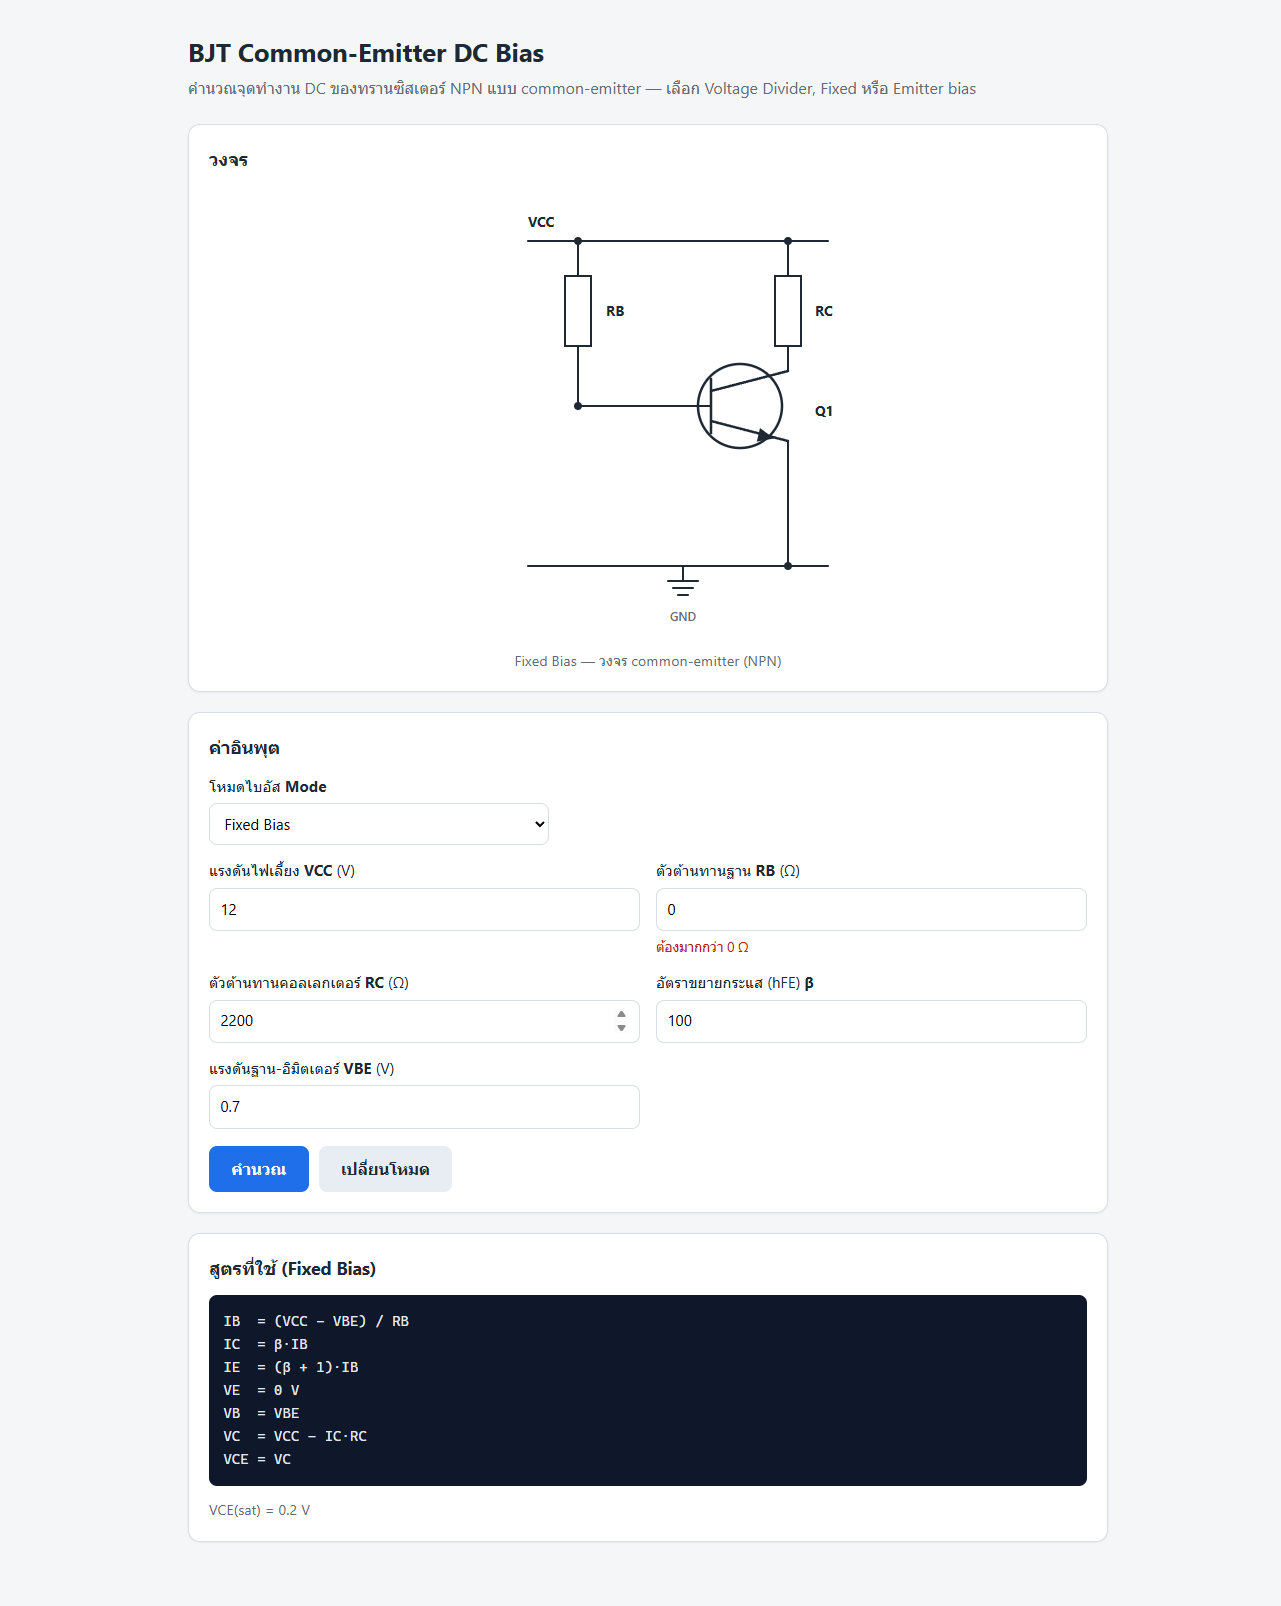
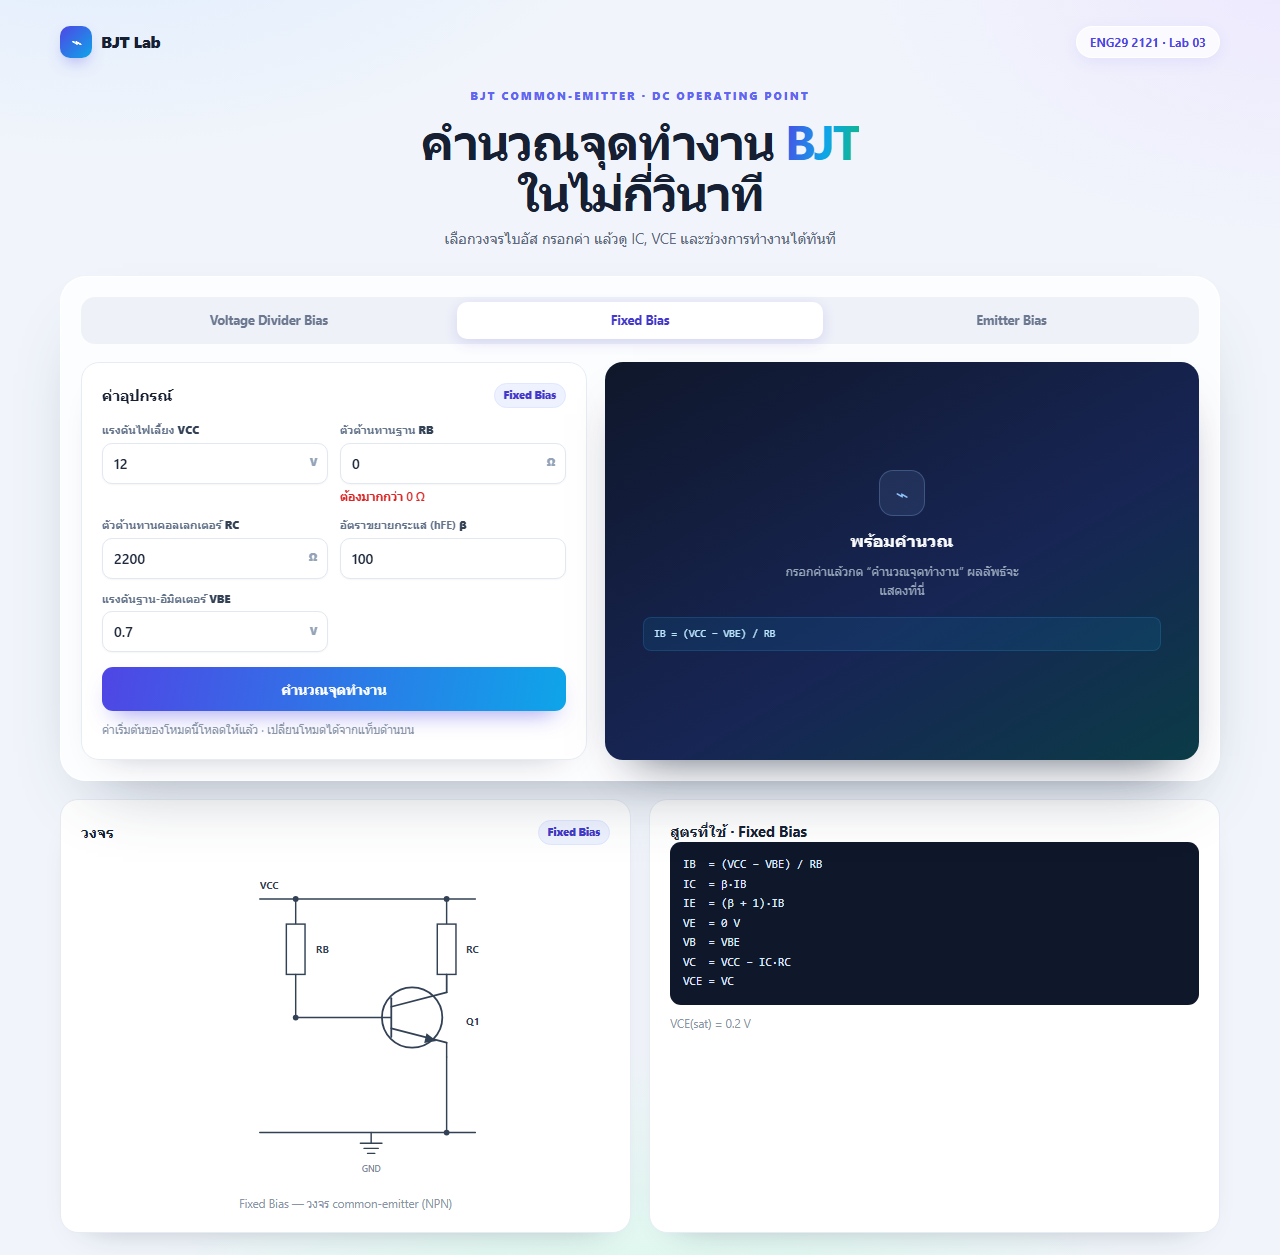
docs: refresh lab 03 evidence for new UI

diff --git a/README.md b/README.md
@@ -11,7 +11,7 @@ Lab 02–03
 
 ## Features
 
-- เลือกโหมดไบอัสจากฟอร์ม แล้วโหลดฟอร์มใหม่ให้แสดงเฉพาะช่องของโหมดนั้น (ไม่ใช้ JavaScript)
+- เลือกโหมดไบอัสด้วยแท็บเหนือฟอร์ม แล้วโหลดฟอร์มใหม่ให้แสดงเฉพาะช่องของโหมดนั้น (ไม่ใช้ JavaScript)
 - Fixed Bias ใช้ `VCC`, `RB`, `RC`, `β`, `VBE`
 - Emitter Bias ใช้ `VCC`, `RB`, `RC`, `RE`, `β`, `VBE`
 - Voltage Divider Bias ใช้ `VCC`, `R1`, `R2`, `RC`, `RE`, `β`, `VBE` (ของเดิมจาก Lab 02)
@@ -120,8 +120,8 @@ python -m venv .venv
 .\.venv\Scripts\python.exe app.py
 ```
 
-เปิด `http://127.0.0.1:5000` เลือกโหมดจากเมนู **โหมดไบอัส** แล้วกด **เปลี่ยนโหมด**
-เพื่อโหลดช่องอินพุตของโหมดนั้น จากนั้นกรอกค่าและกด **คำนวณ**
+เปิด `http://127.0.0.1:5000` สลับโหมดด้วยแท็บ **Voltage Divider Bias / Fixed Bias / Emitter Bias**
+เพื่อโหลดช่องอินพุตของโหมดนั้น จากนั้นกรอกค่าและกด **คำนวณจุดทำงาน**
 
 ## Test
 

diff --git a/docs/validation.md b/docs/validation.md
@@ -88,10 +88,10 @@ VCE = VC − VE                           = 8.0327787022 V
 
 - วิธีตรวจจริง: **OpenCode Browser (browser tool ในแอป)** — ไม่ได้ใช้ Playwright MCP
   ตามทางเลือกสำรองที่ใบงานอนุญาต; เปิด `http://127.0.0.1:5000/` และกรอกฟอร์มจริง
-- ข้อความผลที่คัดจากหน้าเว็บ (A3): `จุดทำงาน DC — Emitter Bias`, `Active`,
+- ข้อความผลที่คัดจากหน้าเว็บ (A3): `ผลลัพธ์ · Emitter Bias`, `Active`,
   `IC 1.0263 mA`, `VCE 8.7054 V`, `VE 1.0366 V`
-- ข้อความ error ที่คัดจากหน้าเว็บ (A5): `ต้องมากกว่า 0 Ω` ใต้ช่อง `ตัวต้านทานฐาน RB (Ω)`
-  และไม่มีส่วน `จุดทำงาน DC`
+- ข้อความ error ที่คัดจากหน้าเว็บ (A5): `ต้องมากกว่า 0 Ω` ใต้ช่อง `ตัวต้านทานฐาน RB`
+  และไม่มีการ์ดผลลัพธ์ (แสดงการ์ด `พร้อมคำนวณ` แทน)
 - Screenshot: `docs/evidence/A3-emitter.png` (A3) และ
   `docs/evidence/A5-fixed-rb0.png` (A5)
 
